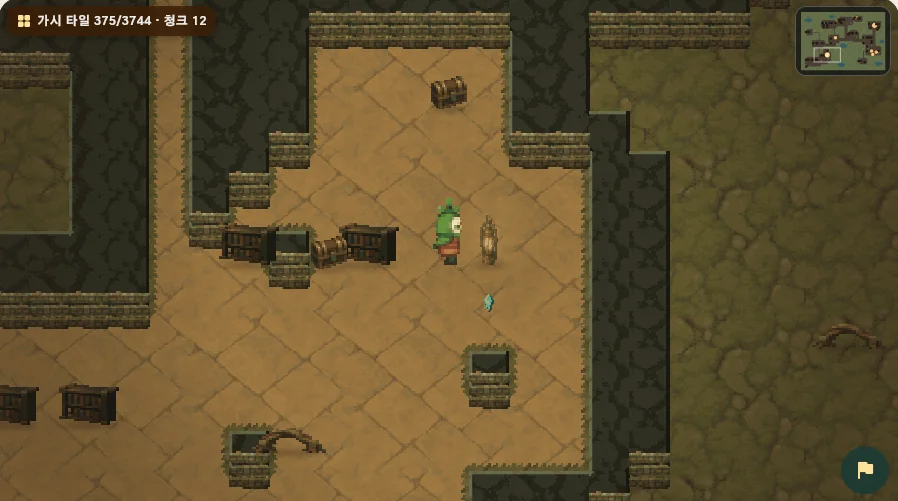
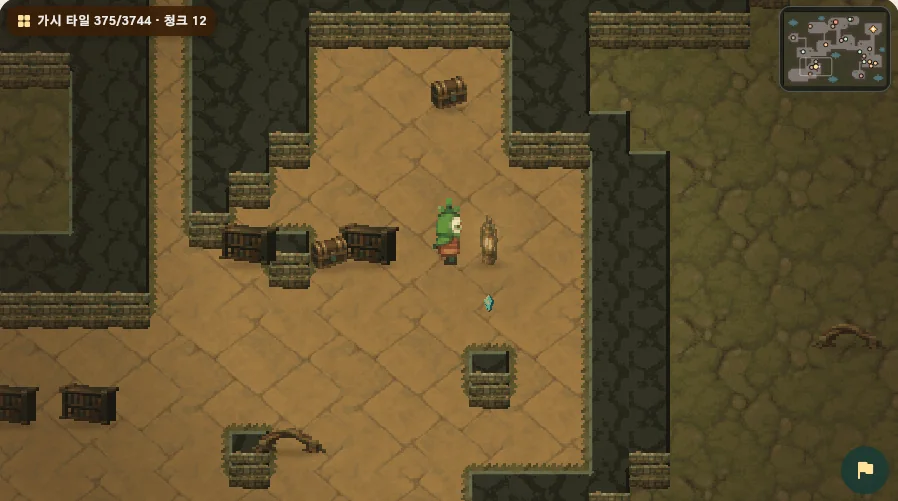
미니맵을 지도답게 다시 그림
미니맵이 대충 만든 티가 난다는 말을 듣고 뜯어 봤더니 대충이 맞았다. 바닥색
판에 바닥이 아닌 칸을 덧칠하는 방식이라 벽과 이끼가 한 색으로 뭉개져 방
모양이 아예 안 보였고, 길을 막는 물건을 종류 불문 검은 점으로 찍어 서가
하나하나가 후추처럼 흩어져 있었다. 축척도 가로세로를 따로 늘여 방이
납작했다.

값의 위계로 다시 그렸다. 어두운 바탕, 살짝 뜨는 이끼, 돌빛 벽, 가장 밝은
바닥 순서라 벽 두 겹이 밝은 바닥을 두르며 저절로 윤곽선이 된다. 선을 따로
긋지 않아도 방과 복도, 순환로와 곁가지가 모양으로 남는다. 축척은 작은 쪽
하나로 통일하고 지도를 상자 가운데에 놓았다.

표식은 다섯으로 줄였다. 상자·결정·사람·엉킴 점과 제단 별 하나. 서가와 기둥
같은 조형물은 찍지 않는다. 눌러도 아무 일 없는 점은 지도에서 소음이다. 벽
너머 장식으로 흩은 결정도 바닥 위가 아니면 걸렀다. 갈 수 없는 곳의 표식은
거짓말이라서다. 점마다 어두운 받침을 깔아 밝은 바닥 위에서도 남게 했다.

플레이어 점에는 바라보는 쪽으로 작은 점을 하나 더 붙였다. 이 크기에서
화살표는 뭉개지고, 큰 점과 작은 점이면 방향이 읽힌다. 카메라 창은 흰 상자만
도드라지던 것을 옅게 눌렀고, 상자도 지도 비율에 맞춰 조금 키웠다.

README 캡처 일곱 장이 전부 옛 미니맵을 담고 있어서 같은 방법으로 다시 찍어
갈아 끼웠다.

Changed region(s): [[0.8419, 0.0, 0.9978, 0.2096]]

diff --git a/app/lib/features/expedition/presentation/expedition_tile_world.dart b/app/lib/features/expedition/presentation/expedition_tile_world.dart
@@ -613,8 +613,10 @@ class _ExpeditionTileWorldState extends ConsumerState<_ExpeditionTileWorld>
                   Positioned(
                     right: 8,
                     top: 8,
-                    width: size.width < 370 ? 82 : 96,
-                    height: 70,
+                    // 지도 비율(72:52)에 맞춘 상자. 비율이 다르면 안에서 지도가
+                    // 붕 뜨고, 억지로 채우면 늘어난다.
+                    width: size.width < 370 ? 96 : 112,
+                    height: size.width < 370 ? 74 : 86,
                     child: DecoratedBox(
                       decoration: BoxDecoration(
                         color: const Color(0xCC151A18),
@@ -627,6 +629,7 @@ class _ExpeditionTileWorldState extends ConsumerState<_ExpeditionTileWorld>
                           field: _field,
                           player: _position,
                           camera: camera,
+                          facing: _facing,
                         ),
                       ),
                     ),
@@ -1256,49 +1259,164 @@ class _TileField {
     }
   }
 
+  /// 미니맵 투영. 배경과 그 위 레이어가 같은 눈금을 써야 점이 지형에 붙는다.
+  ///
+  /// 축척은 가로세로 중 작은 쪽 **하나**다. 앞 판은 두 축을 따로 늘여 상자에
+  /// 맞췄는데, 그러면 방이 납작해져서 지도 모양과 걷는 땅의 모양이 어긋난다.
+  /// 지도는 비율이 맞아야 모양만 보고 자리를 찾을 수 있다.
+  ({double scale, Offset origin}) minimapFrame(Size size) {
+    const inset = 5.0;
+    final scale = math.min(
+      (size.width - inset * 2) / width,
+      (size.height - inset * 2) / height,
+    );
+    return (
+      scale: scale,
+      origin: Offset(
+        (size.width - width * scale) / 2,
+        (size.height - height * scale) / 2,
+      ),
+    );
+  }
+
+  /// 미니맵 배경. 지도가 할 일은 하나 - 구조가 한눈에 읽히는 것이다.
+  ///
+  /// 앞 판은 바닥색 판에 바닥이 아닌 칸을 덧칠해서 벽과 이끼가 한 색으로
+  /// 뭉개졌고, 길을 막는 물건을 종류 불문 검은 점으로 찍어서 서가 하나하나가
+  /// 후추처럼 흩어졌다. 방 모양은 안 보이고 얼룩만 보이는 지도였다.
+  ///
+  /// 지금은 값의 위계로 그린다. 어두운 바탕 위에 이끼는 살짝, 벽은 돌빛으로
+  /// 도드라지고, 걷는 바닥이 가장 밝다. 벽 두 겹이 밝은 바닥을 두르면서
+  /// 방과 복도의 윤곽선 노릇을 한다 - 선을 따로 긋지 않아도 구조가 남는다.
   ui.Picture minimapBackground(Size size) {
     final cached = _minimapPicture;
     if (cached != null && _minimapPictureSize == size) return cached;
     cached?.dispose();
-    const padding = 6.0;
-    final sx = (size.width - padding * 2) / width;
-    final sy = (size.height - padding * 2) / height;
+    final frame = minimapFrame(size);
+    final scale = frame.scale;
+    final origin = frame.origin;
     final recorder = ui.PictureRecorder();
     final canvas = Canvas(recorder);
-    final map = Rect.fromLTWH(padding, padding, width * sx, height * sy);
-    canvas.drawRect(map, Paint()..color = palette.floorA);
+    final map = Rect.fromLTWH(
+      origin.dx,
+      origin.dy,
+      width * scale,
+      height * scale,
+    );
+    // 지형 덩어리가 각지게 끝나면 지도가 아니라 스크린샷 조각으로 보인다.
+    // 모서리를 액자와 같은 결로 둥글려 둔다.
+    canvas.clipRRect(
+      RRect.fromRectAndRadius(map.inflate(1), const Radius.circular(4)),
+    );
+    canvas.drawRect(
+      map.inflate(1),
+      Paint()..color = Color.lerp(palette.voidColor, Colors.black, .38)!,
+    );
+
+    final mossInk = Paint()
+      ..color = Color.lerp(palette.voidColor, palette.moss, .40)!;
+    final wallInk = Paint()
+      ..color = Color.lerp(palette.voidColor, palette.stone, .55)!;
+    final floorInk = Paint()
+      ..color = Color.lerp(palette.floorA, Colors.white, .30)!;
+    final waterInk = Paint()
+      ..color = Color.lerp(palette.water, Colors.white, .14)!;
     for (final chunk in _chunks) {
       for (final cell in chunk.cells) {
-        if (cell.terrain == _TileTerrain.floor) continue;
+        final ink = switch (cell.terrain) {
+          _TileTerrain.moss => mossInk,
+          _TileTerrain.wall => wallInk,
+          _TileTerrain.floor => floorInk,
+          _TileTerrain.water => waterInk,
+        };
         canvas.drawRect(
           Rect.fromLTWH(
-            padding + cell.x * sx,
-            padding + cell.y * sy,
-            sx + .15,
-            sy + .15,
+            origin.dx + cell.x * scale,
+            origin.dy + cell.y * scale,
+            // 반 픽셀 겹침. 소수 축척에서 칸 사이가 실금으로 갈라지지 않게.
+            scale + .5,
+            scale + .5,
           ),
-          Paint()
-            ..color = cell.terrain == _TileTerrain.water
-                ? palette.water
-                : palette.moss,
+          ink,
         );
       }
     }
+
+    // 표식은 다섯 가지뿐이다. 상자·결정·사람·엉킴, 그리고 제단.
+    //
+    // 서가나 기둥 같은 조형물은 찍지 않는다. 전부 찍으면 지도가 다시 후추가
+    // 되는데, 눌러도 아무 일 없는 점은 지도에서 소음이다. 벽 너머 장식으로
+    // 흩어 둔 결정도 바닥 위가 아니면 거른다 - 갈 수 없는 곳의 표식은 거짓말이다.
+    void dot(Offset foot, Color color, double radius) {
+      if (terrainAt(foot.dx.floor(), (foot.dy - .5).floor()) !=
+          _TileTerrain.floor) {
+        return;
+      }
+      final center = Offset(
+        origin.dx + foot.dx * scale,
+        origin.dy + foot.dy * scale,
+      );
+      // 밝은 바닥 위에서도 남게 어두운 받침을 깔고 색을 얹는다.
+      canvas.drawCircle(
+        center,
+        radius + .9,
+        Paint()..color = Color.lerp(palette.voidColor, Colors.black, .45)!,
+      );
+      canvas.drawCircle(center, radius, Paint()..color = color);
+    }
+
     for (final chunk in _chunks) {
-      for (final object in chunk.objects.where((object) => object.blocks)) {
-        // 제단과 결정은 빛으로 찍는다. 미니맵에서 빛나는 점이 곧 가 볼 곳이다.
-        final lit = object.kind == _TileObjectKind.altar ||
-            object.kind == _TileObjectKind.crystal;
-        canvas.drawCircle(
-          Offset(
-            padding + object.position.dx * sx,
-            padding + object.position.dy * sy,
-          ),
-          object.kind == _TileObjectKind.altar ? 2.5 : (lit ? 1.6 : 1.1),
-          Paint()..color = lit ? palette.glow : palette.voidColor,
-        );
+      for (final object in chunk.objects) {
+        switch (object.kind) {
+          case _TileObjectKind.chest:
+            dot(
+              object.position,
+              Color.lerp(palette.metal, Colors.white, .32)!,
+              1.5,
+            );
+          case _TileObjectKind.crystal:
+            dot(object.position, Color.lerp(palette.glow, Colors.white, .2)!,
+                1.5);
+          case _TileObjectKind.npc:
+            dot(object.position, const Color(0xFFCDEBC4), 1.5);
+          case _TileObjectKind.monster:
+            dot(object.position, const Color(0xFFFF9A85), 1.8);
+          case _TileObjectKind.root:
+            // 아치 문만 찍는다. 문은 지도에서 찾아 들어가는 곳이다.
+            if (object.warp) {
+              dot(object.position, Color.lerp(palette.metal, Colors.white, .1)!,
+                  1.4);
+            }
+          default:
+            break;
+        }
       }
     }
+
+    // 제단은 별 하나로 찍는다. 이 지도에 별은 하나뿐이라, 어디로 가야
+    // 하는지가 글자 없이 정해진다.
+    final goalCenter = Offset(
+      origin.dx + goal.dx * scale,
+      origin.dy + goal.dy * scale,
+    );
+    Path sparkle(double reach, double waist) => Path()
+      ..moveTo(goalCenter.dx, goalCenter.dy - reach)
+      ..quadraticBezierTo(goalCenter.dx + waist, goalCenter.dy - waist,
+          goalCenter.dx + reach, goalCenter.dy)
+      ..quadraticBezierTo(goalCenter.dx + waist, goalCenter.dy + waist,
+          goalCenter.dx, goalCenter.dy + reach)
+      ..quadraticBezierTo(goalCenter.dx - waist, goalCenter.dy + waist,
+          goalCenter.dx - reach, goalCenter.dy)
+      ..quadraticBezierTo(goalCenter.dx - waist, goalCenter.dy - waist,
+          goalCenter.dx, goalCenter.dy - reach)
+      ..close();
+    canvas.drawPath(
+      sparkle(4.6, 1.7),
+      Paint()..color = Color.lerp(palette.voidColor, Colors.black, .45)!,
+    );
+    canvas.drawPath(sparkle(3.7, 1.25), Paint()..color = palette.glow);
+    canvas.drawCircle(goalCenter, .95, Paint()..color = Colors.white);
+
     _minimapPictureSize = size;
     return _minimapPicture = recorder.endRecording();
   }
@@ -3223,41 +3341,63 @@ class _TileMinimapPainter extends CustomPainter {
     required this.field,
     required this.player,
     required this.camera,
+    required this.facing,
   });
 
   final _TileField field;
   final Offset player;
   final _WorldCamera camera;
+  final _WalkFacing facing;
 
   @override
   void paint(Canvas canvas, Size size) {
-    const padding = 6.0;
-    final sx = (size.width - padding * 2) / field.width;
-    final sy = (size.height - padding * 2) / field.height;
+    final frame = field.minimapFrame(size);
+    final scale = frame.scale;
+    final origin = frame.origin;
     canvas.drawPicture(field.minimapBackground(size));
+    // 카메라 창. 세게 그리면 지도 위에 흰 상자만 남는다 - 지금 화면이 지도의
+    // 어디쯤인지 짚어 줄 만큼만 남긴다.
     final view = camera.worldRect;
-    canvas.drawRect(
-      Rect.fromLTWH(
-        padding + view.left * sx,
-        padding + view.top * sy,
-        view.width * sx,
-        view.height * sy,
+    canvas.drawRRect(
+      RRect.fromRectAndRadius(
+        Rect.fromLTWH(
+          origin.dx + view.left * scale,
+          origin.dy + view.top * scale,
+          view.width * scale,
+          view.height * scale,
+        ),
+        const Radius.circular(2),
       ),
       Paint()
-        ..color = Colors.white54
+        ..color = Colors.white38
         ..style = PaintingStyle.stroke
         ..strokeWidth = 1,
     );
-    canvas.drawCircle(
-      Offset(padding + player.dx * sx, padding + player.dy * sy),
-      2.5,
-      Paint()..color = const Color(0xFFFFE19A),
+    final at = Offset(
+      origin.dx + player.dx * scale,
+      origin.dy + player.dy * scale,
     );
+    final ahead = switch (facing) {
+      _WalkFacing.up => const Offset(0, -1),
+      _WalkFacing.down => const Offset(0, 1),
+      _WalkFacing.left => const Offset(-1, 0),
+      _WalkFacing.right => const Offset(1, 0),
+    };
+    // 바라보는 쪽 앞에 작은 점을 하나 더 찍는다. 이 크기에서 화살표는
+    // 뭉개지고, 큰 점 하나와 작은 점 하나면 방향이 읽힌다.
+    canvas.drawCircle(at, 3.1, Paint()..color = field.palette.voidColor);
+    canvas.drawCircle(
+      at + ahead * 3.4,
+      1.0,
+      Paint()..color = Colors.white70,
+    );
+    canvas.drawCircle(at, 2.1, Paint()..color = const Color(0xFFFFE19A));
   }
 
   @override
   bool shouldRepaint(covariant _TileMinimapPainter oldDelegate) =>
       oldDelegate.field != field ||
       oldDelegate.player != player ||
+      oldDelegate.facing != facing ||
       oldDelegate.camera.origin != camera.origin;
 }
